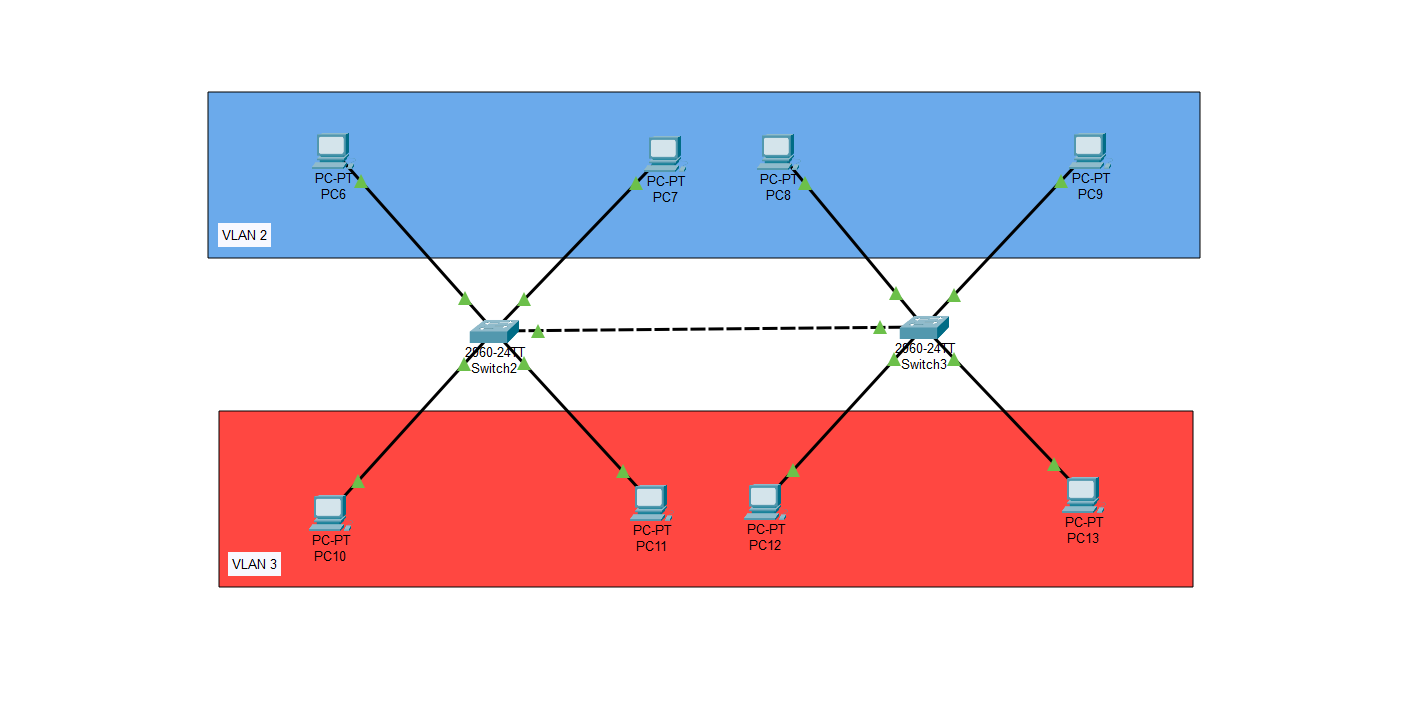
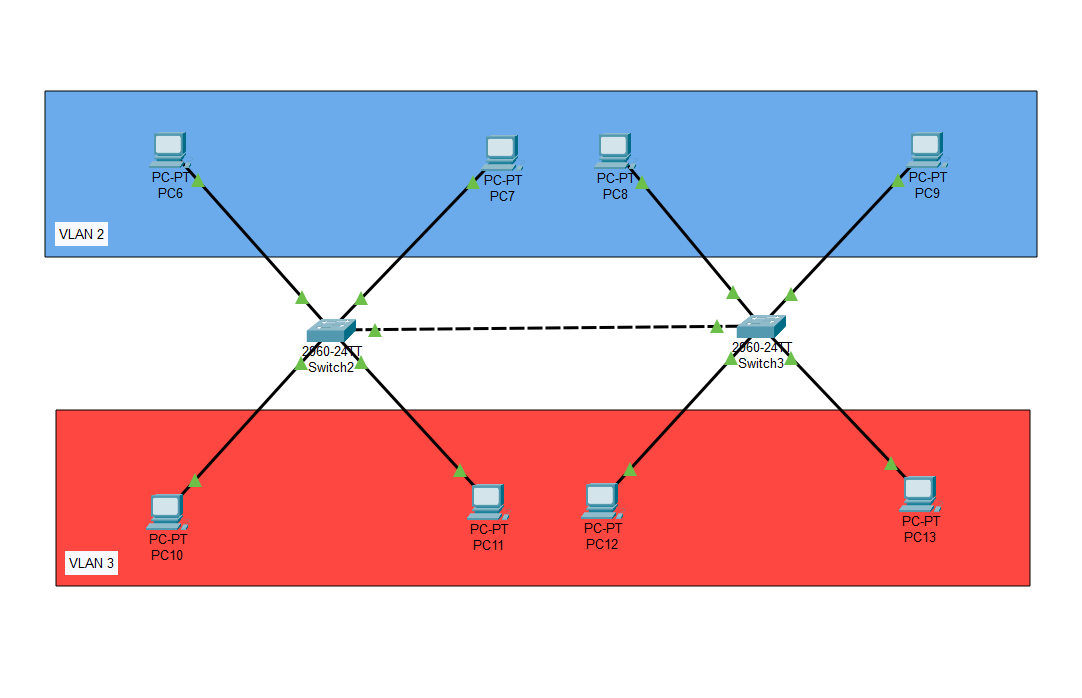
Изменил размер схемы чтобы картинка лучше отображалась

Changed region(s): [[0.0305, 0.1203, 0.976, 0.8424], [0.732, 0.6318, 0.793, 0.7822], [0.244, 0.6318, 0.2745, 0.692]]

diff --git a/5.VLAN/log_05_VLAN.md b/5.VLAN/log_05_VLAN.md
@@ -88,7 +88,7 @@ Switch# show vlan brief
 - PC2 -> PC3 - успешно
 - PC4 -> PC5 - успешно
 
-[!Смотреть топологию](./final_vlan_switch1.png)
+![Топология в Cisco Packet Tracer](./final_vlan_switch1.png)
 
 ---
 
@@ -137,7 +137,7 @@ Switch(config)# switchport trunk allowed vlan 2,3
 - PC10 -> PC13
 !ответы получены
 
-[!Смотреть топологию](./final_vlan_switch2-3.png)
+![Топология в Cisco Packet Tracer](./final_vlan_switch2-3.png)
 
 ---
 
